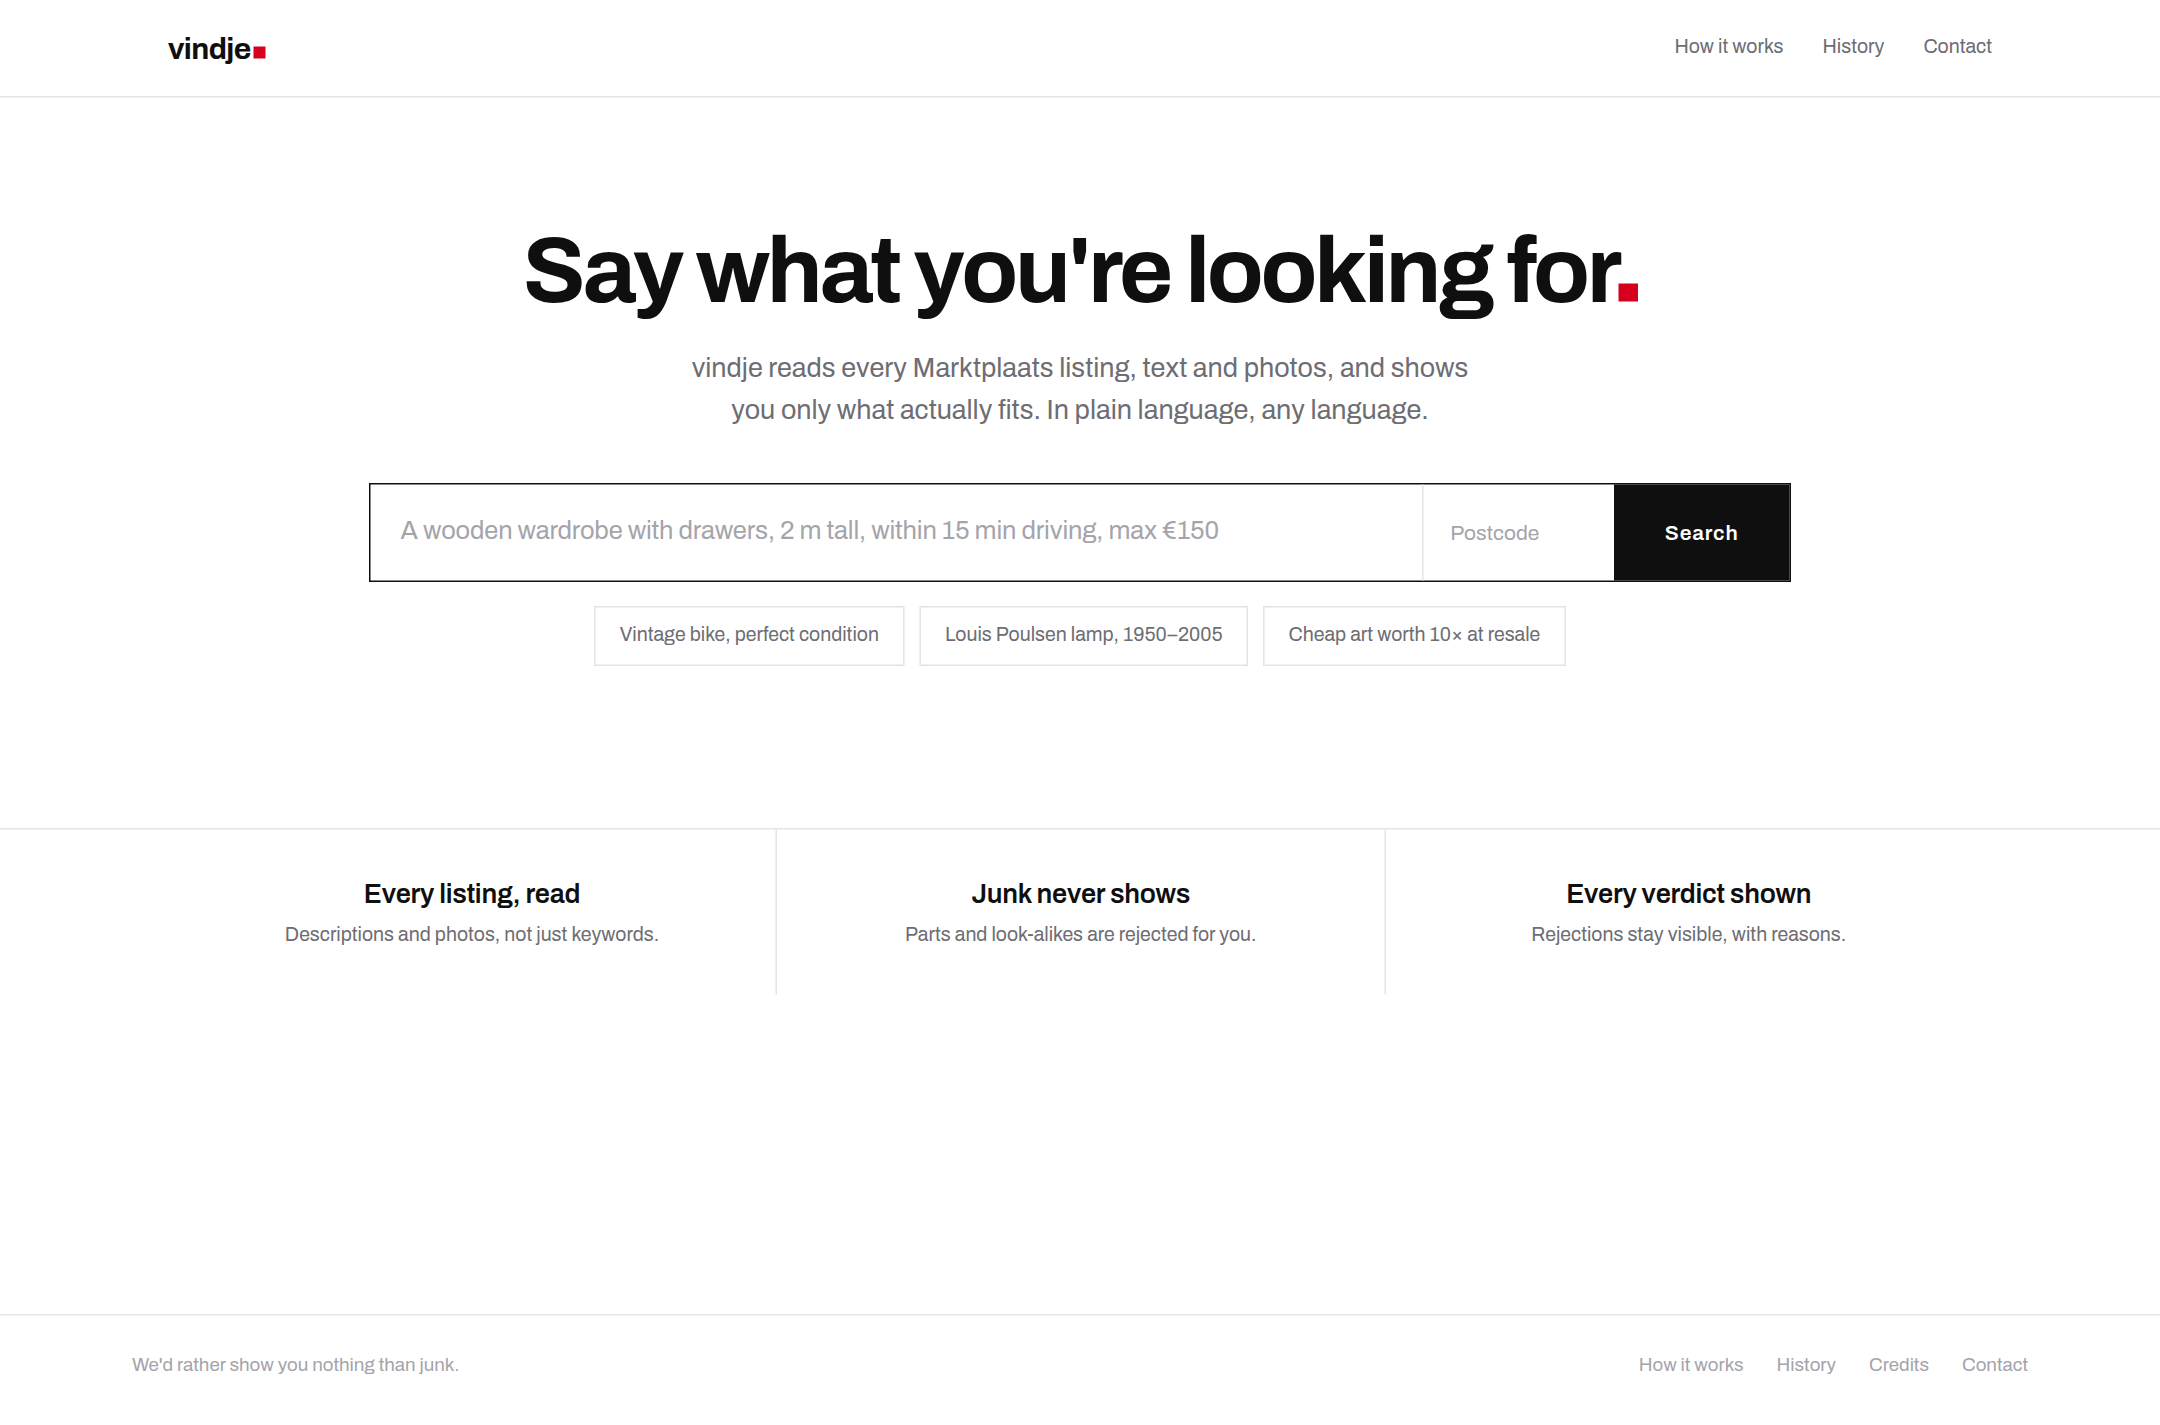
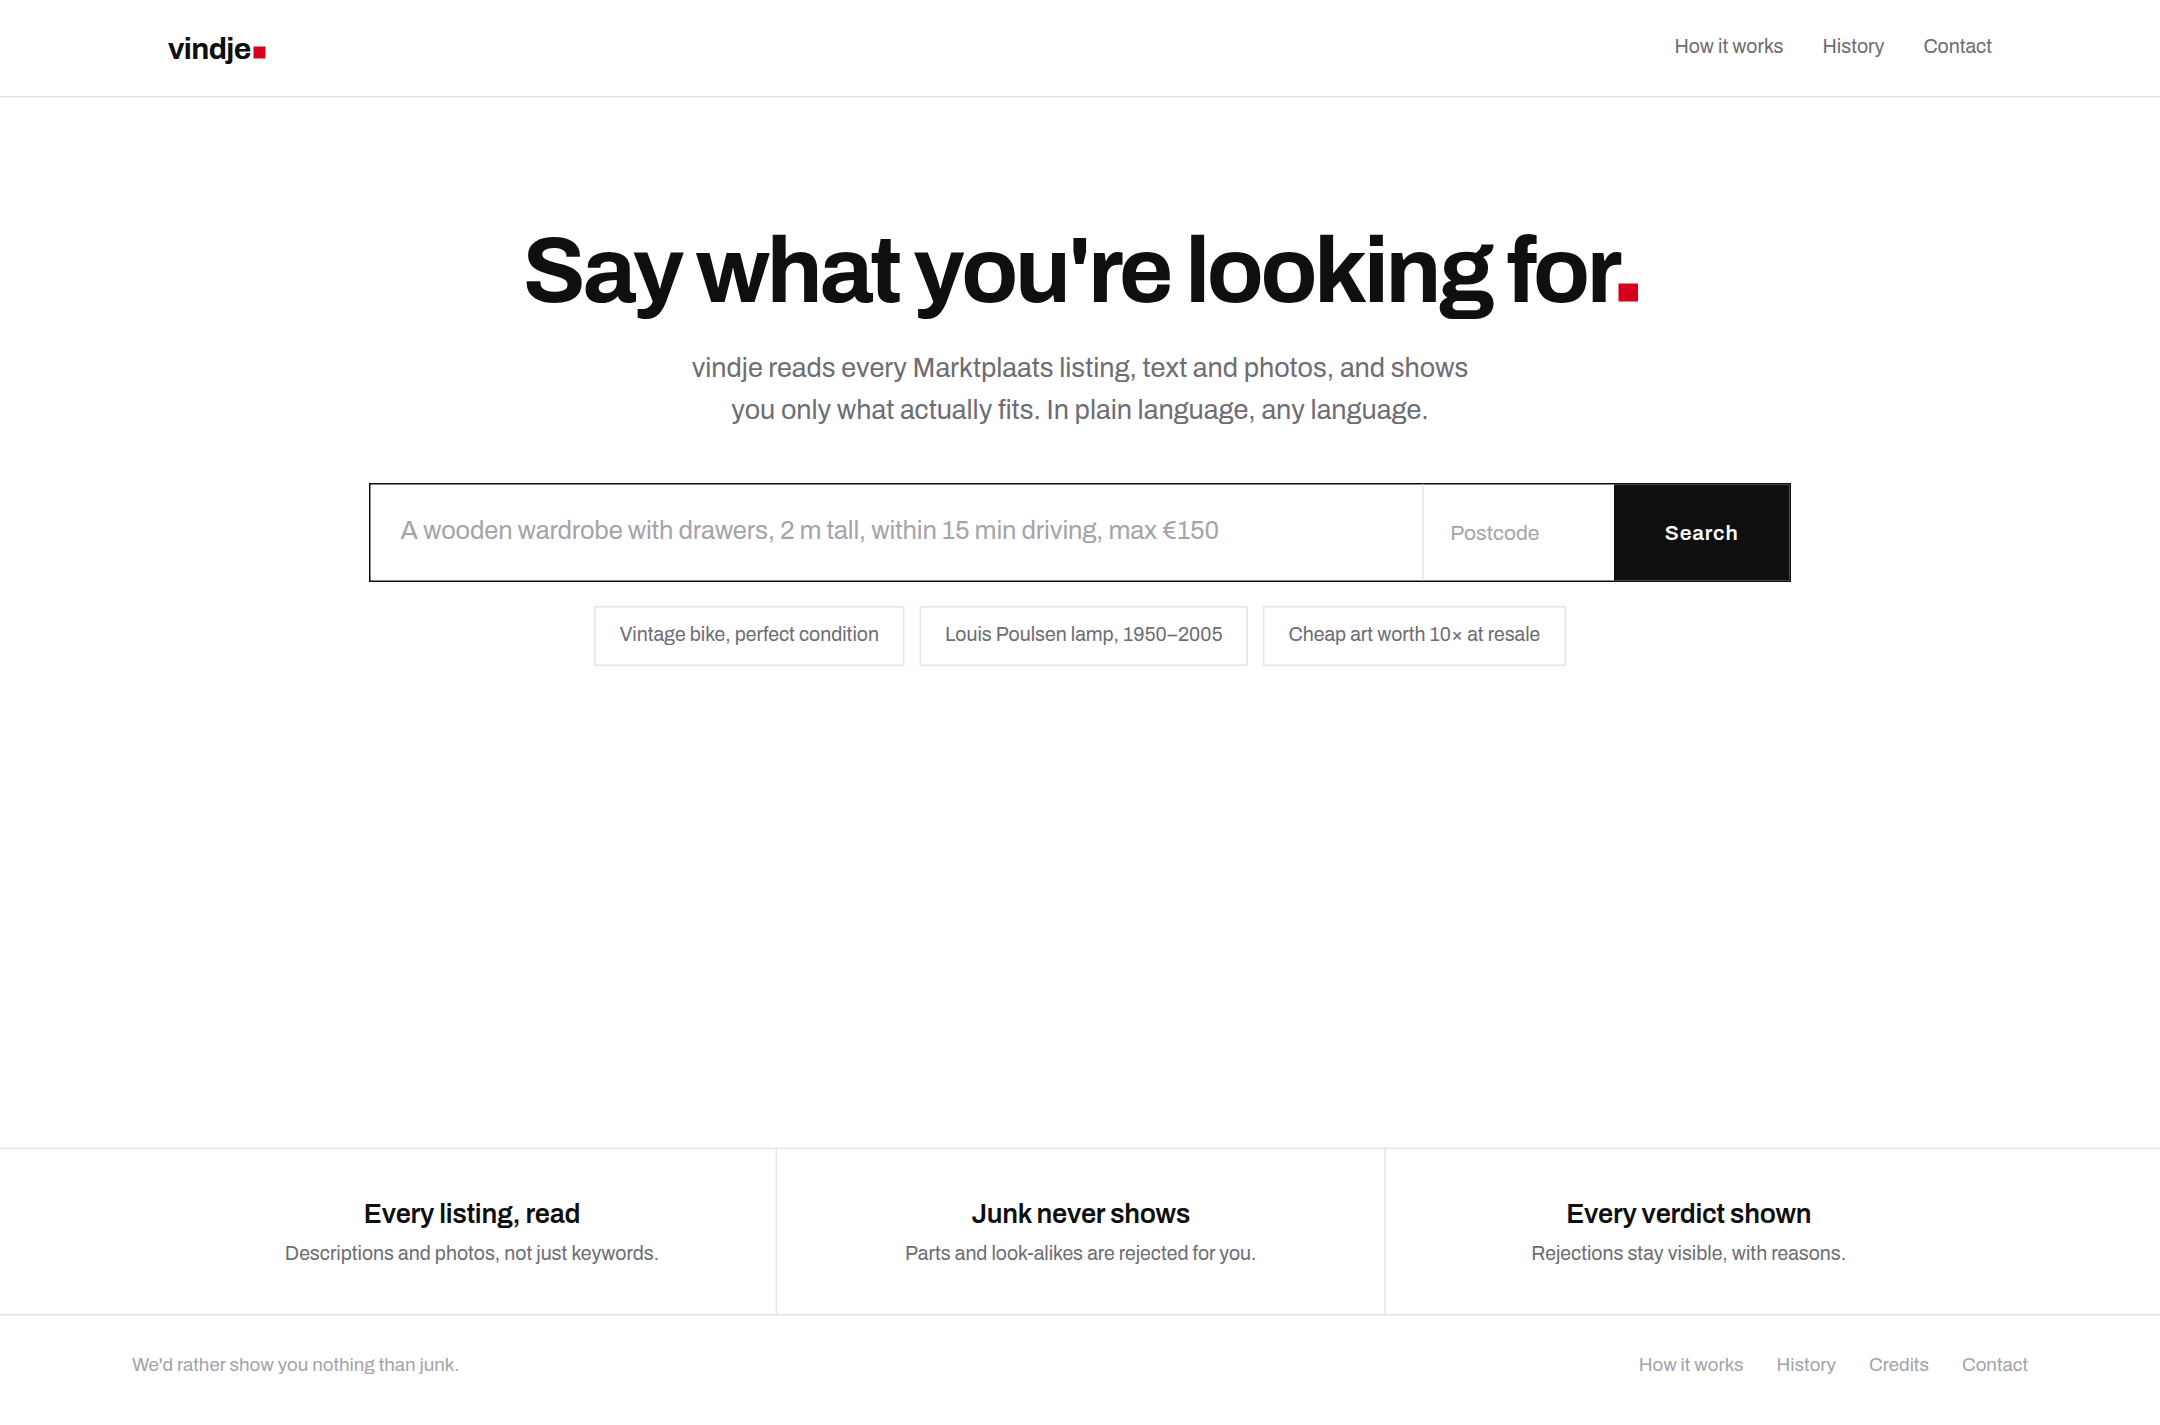
Dock the facts row onto the footer on the homepage
The sticky-footer stretch was landing between the facts row and the
footer, leaving a dead band there. The main column now pushes the facts
row to the bottom (margin-top auto), so the two read as one footer
block, and the leftover space sits above them as hero breathing room.
Results pages keep their footer spacing.

Claude-Session: https://claude.ai/code/session_01S6MiRWw3mcKJoMbTWpKwhx

diff --git a/app.py b/app.py
@@ -691,7 +691,7 @@ HTML = """<!doctype html>
 
   /* search */
   .search { padding: 40px 0 28px; }
-  body:not(.run) .search { max-width: 948px; padding-top: 34px; }
+  body:not(.run) .search { max-width: 948px; padding-top: 34px; padding-bottom: 56px; }
   body:not(.run) .examples { justify-content: center; }
   .search .slabel { display: none; color: var(--faint); margin-bottom: 12px; }
   body.run .search { padding-top: 44px; }
@@ -791,6 +791,7 @@ HTML = """<!doctype html>
   .deals .cat { display: flex; align-items: baseline; gap: 12px; padding: 22px 0 12px; }
   .deals .cat .label { color: var(--ink); }
   .deals .cat .n { color: var(--faint); font-size: 12.5px; }
+  .deals.show { padding-bottom: 56px; }
   .deals .dgrid { display: grid; grid-template-columns: repeat(3, 1fr); gap: 1px;
                   background: var(--hair); border: 1px solid var(--hair); }
   @media (max-width: 1000px) { .deals .dgrid { grid-template-columns: 1fr 1fr; } }
@@ -839,10 +840,11 @@ HTML = """<!doctype html>
   .card.rejected:hover .priceline, .card.rejected:hover .desc { opacity: .8; }
   .card.rejected .why { display: none; }
 
-  main { flex: 1 0 auto; }
+  main { flex: 1 0 auto; display: flex; flex-direction: column; }
+  main > :first-child { margin-top: 0; }
 
   /* facts row (idle only) */
-  .homefacts { border-top: 1px solid var(--hair); margin-top: 64px; }
+  .homefacts { border-top: 1px solid var(--hair); margin-top: auto; }
   .homefacts .in { display: grid; grid-template-columns: 1fr 1fr 1fr; }
   .fact { padding: 30px 28px; text-align: center; }
   .fact + .fact { border-left: 1px solid var(--hair); }
@@ -856,6 +858,7 @@ HTML = """<!doctype html>
   }
 
   footer { flex-shrink: 0; margin-top: 64px; border-top: 1px solid var(--hair); }
+  body:not(.run) footer { margin-top: 0; }
   .foot-in { display: flex; align-items: center; flex-wrap: wrap; gap: 10px 22px;
              padding: 24px 0 30px; color: var(--faint); font-size: 12.5px; }
   .foot-links { margin-left: auto; display: flex; gap: 22px; }
